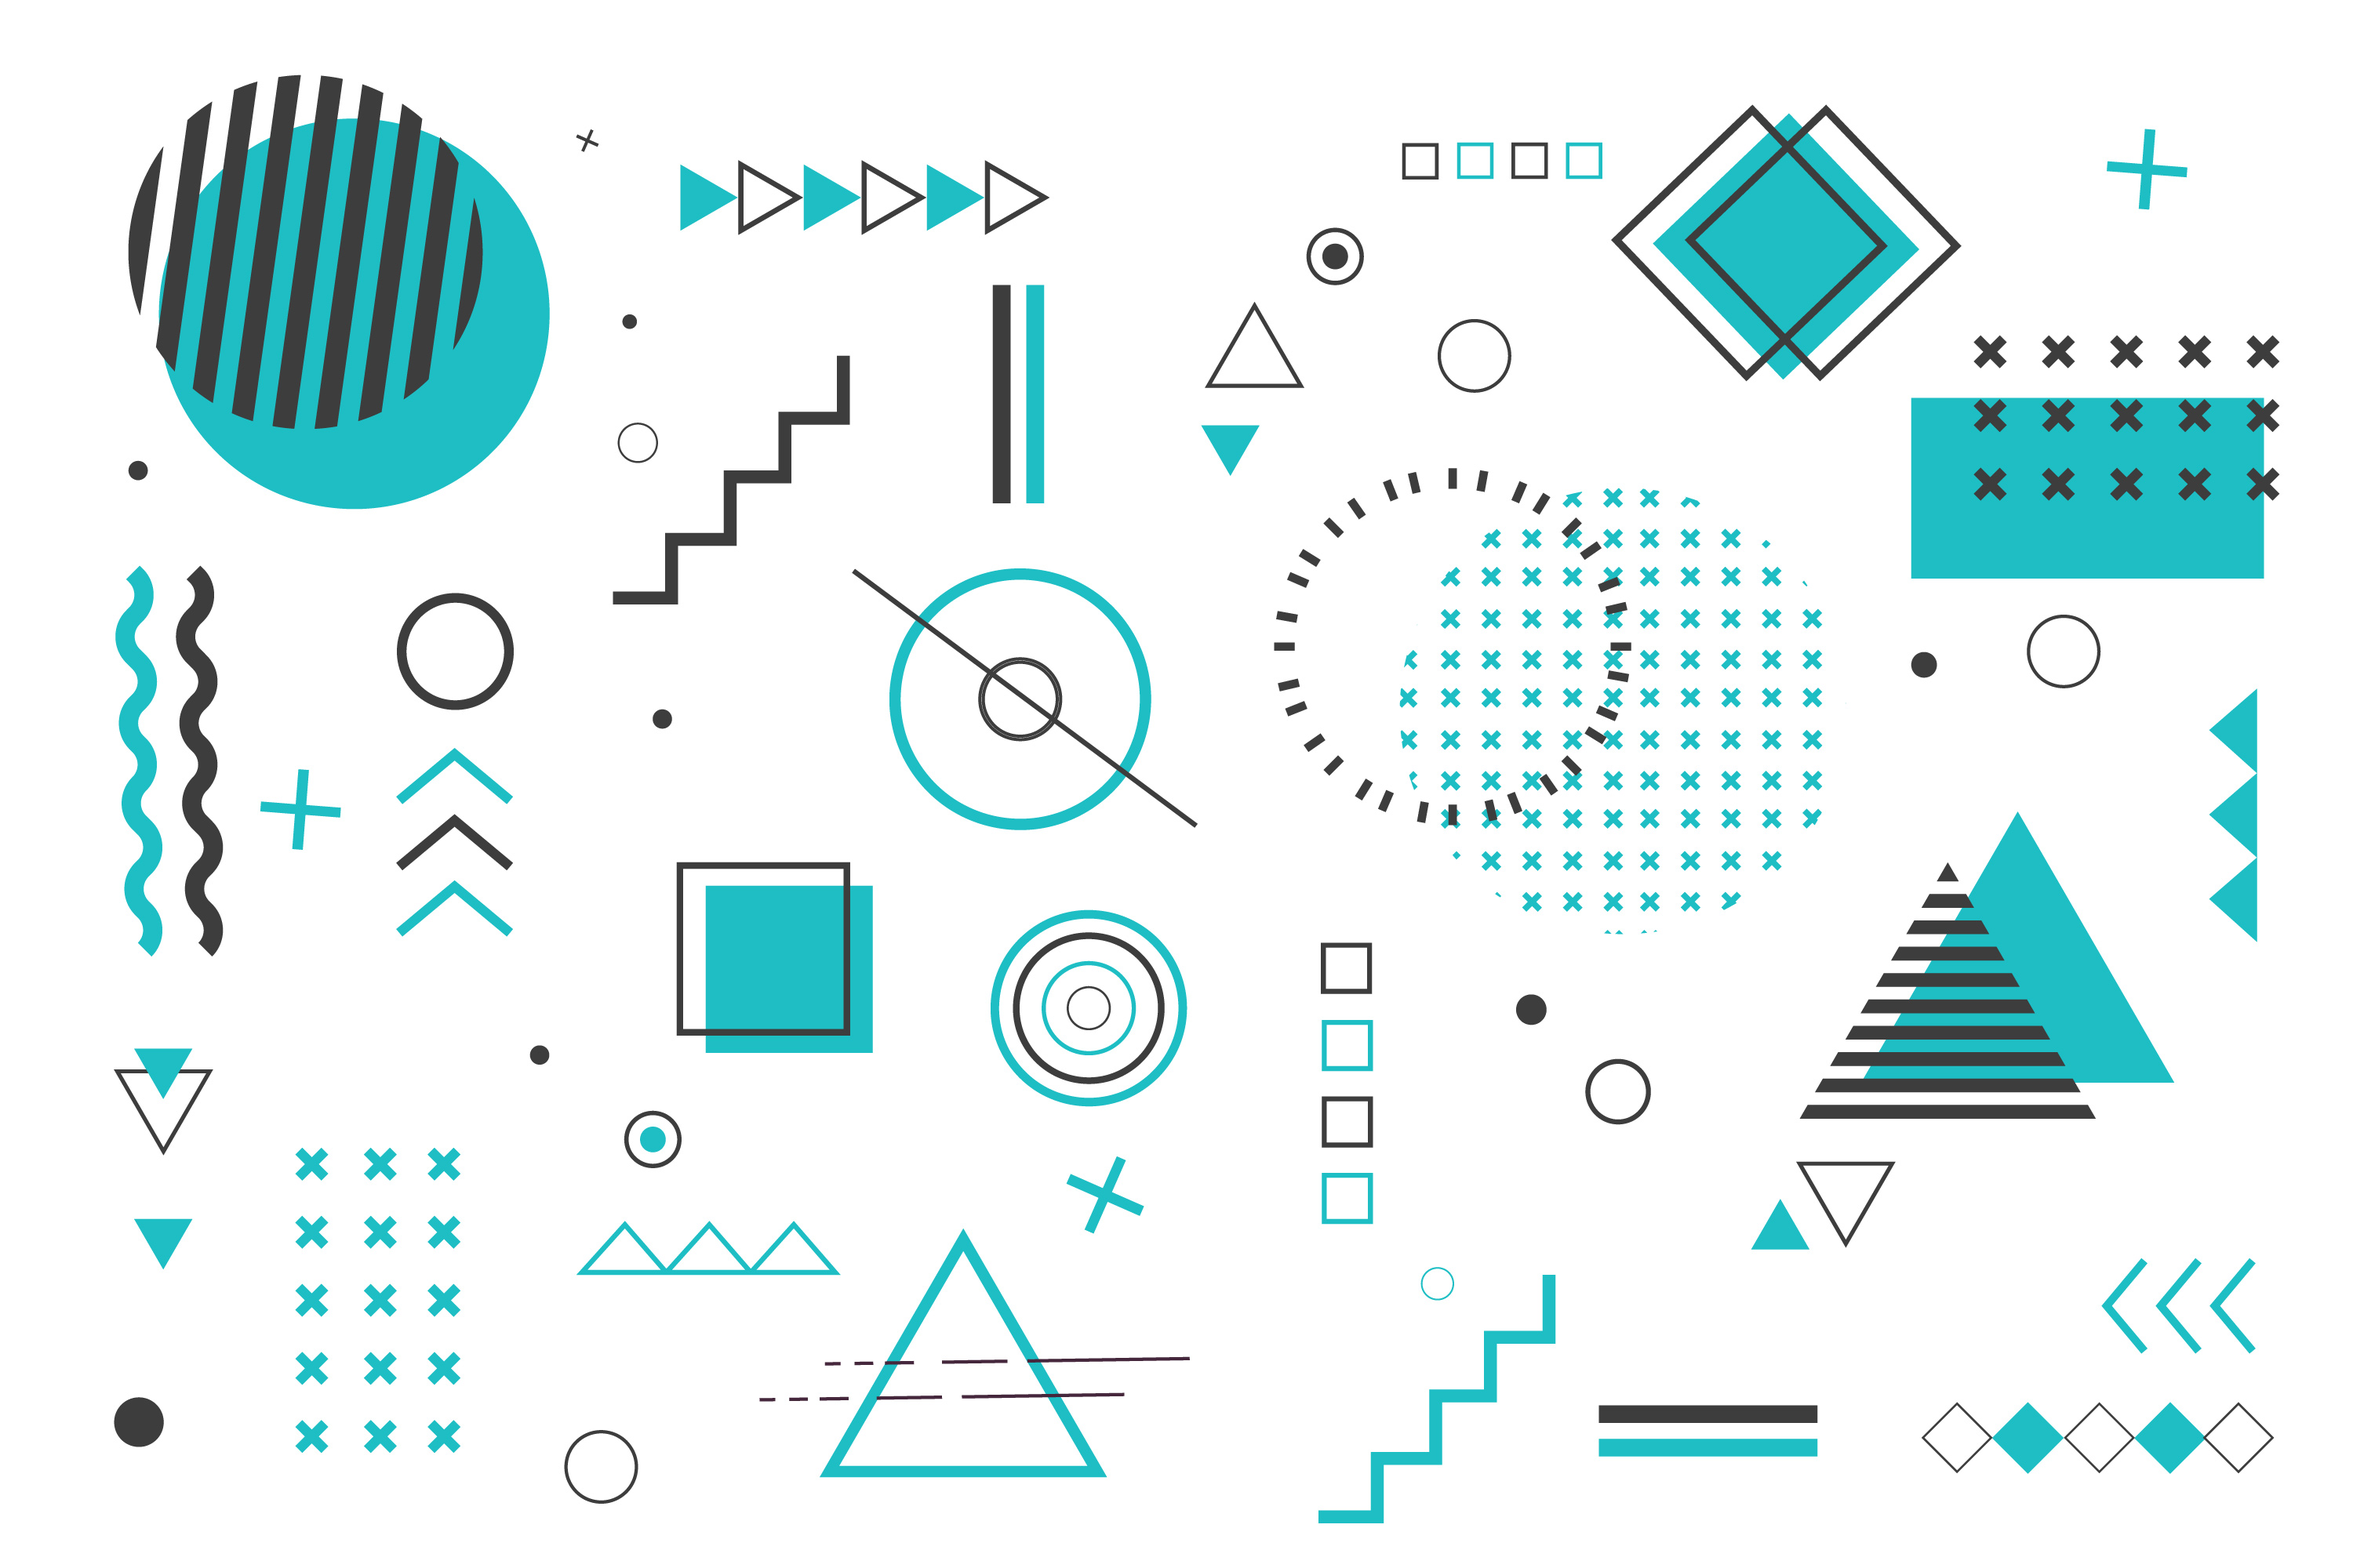
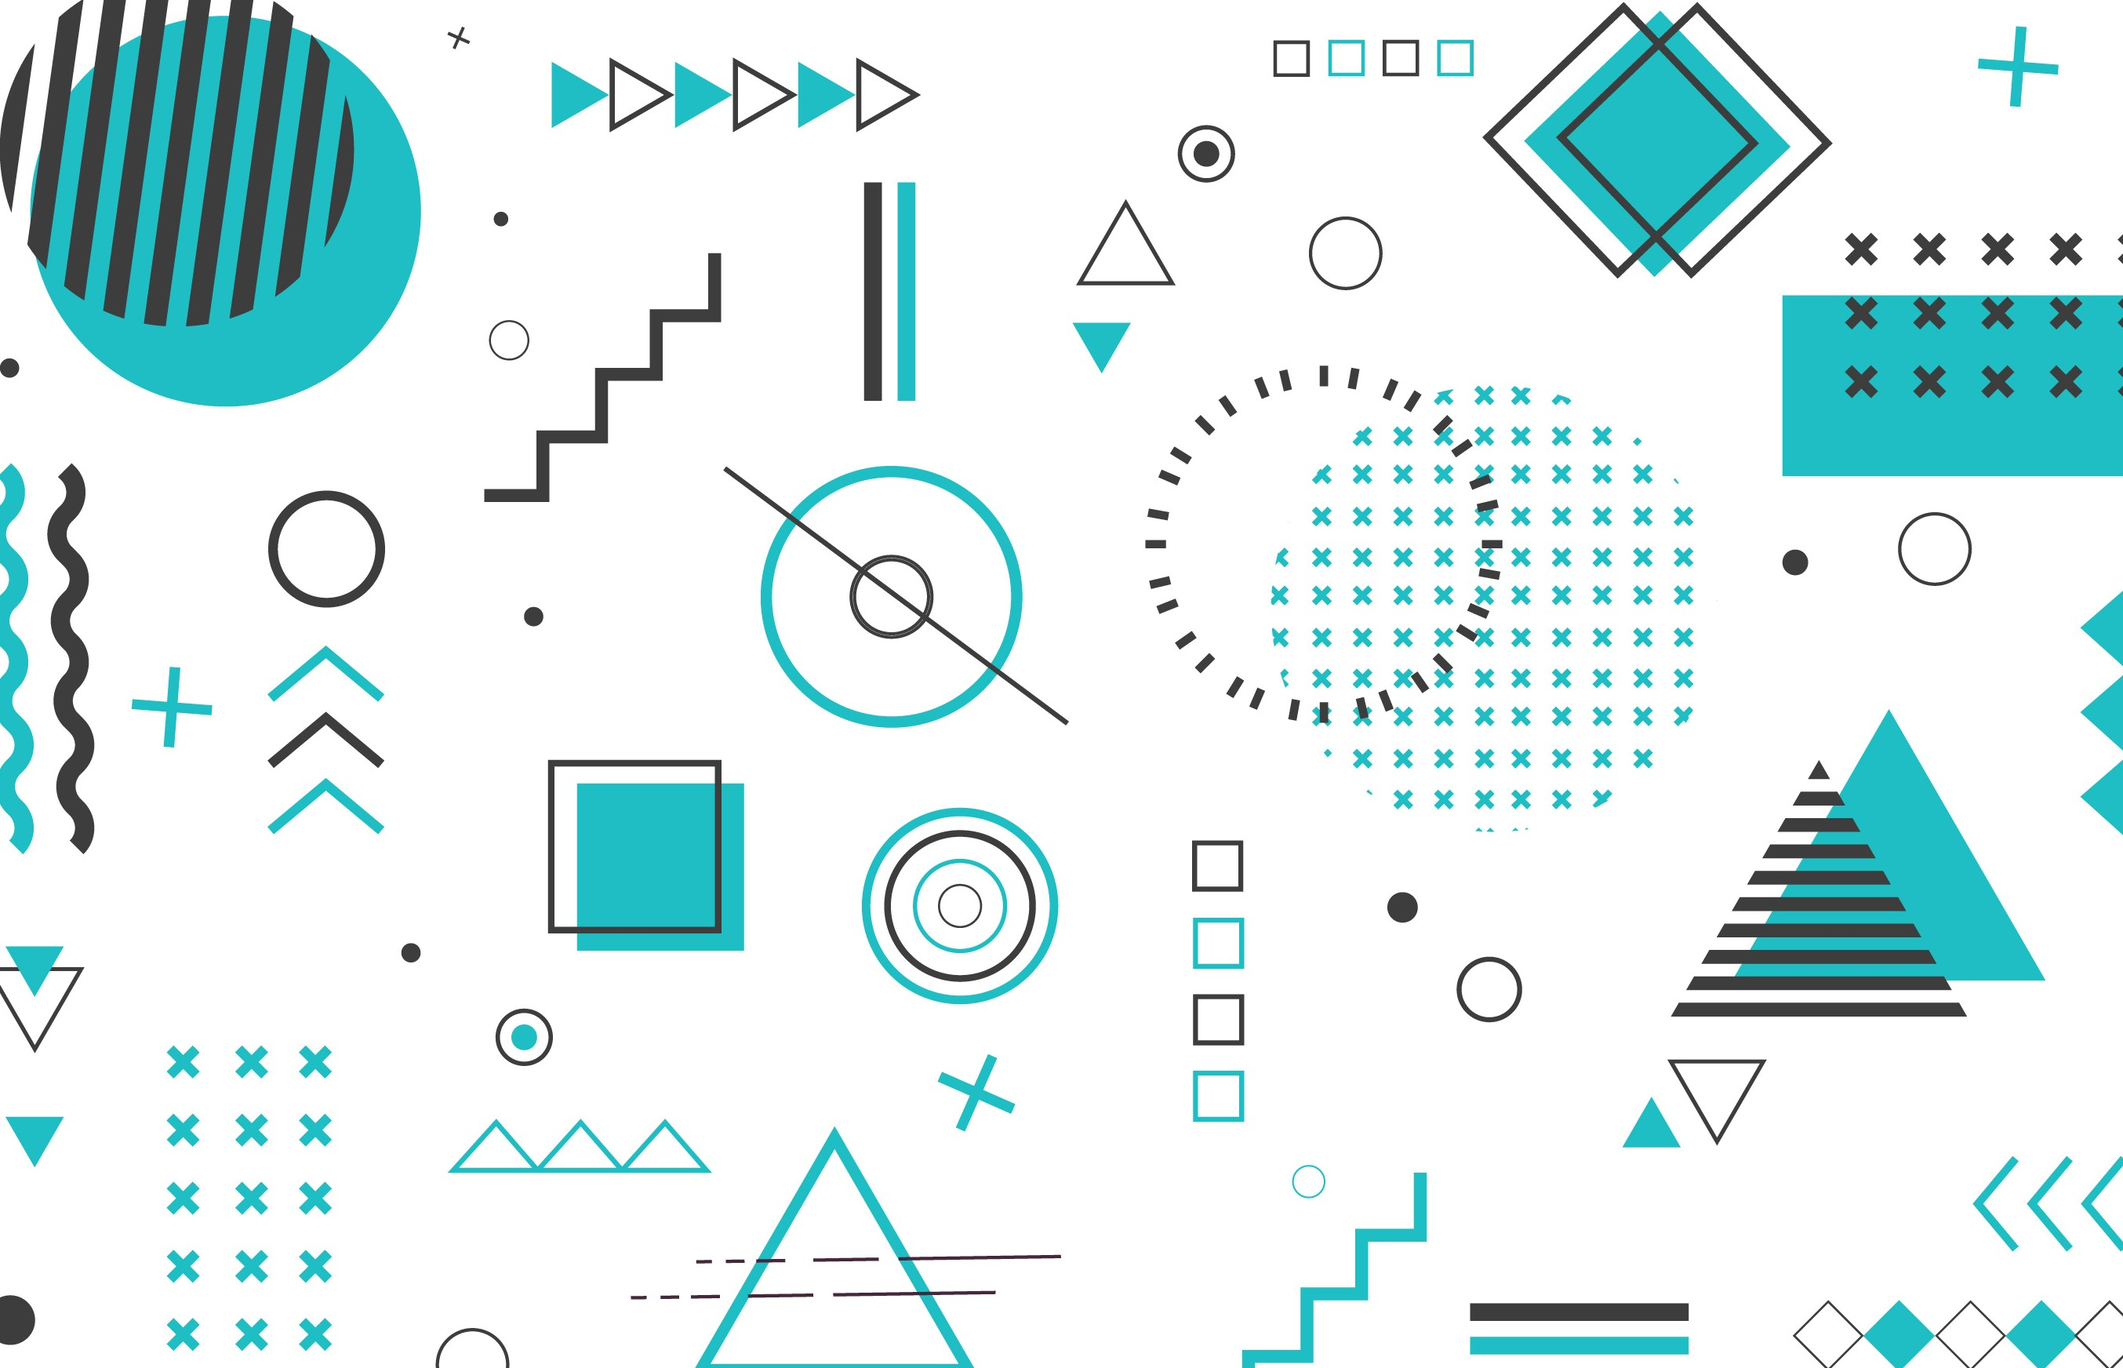
inserted background image with subtitle

diff --git a/assets/style.css b/assets/style.css
@@ -34,3 +34,25 @@ header li a {
     text-underline-offset: 10px;
     text-decoration-thickness: 3px;
 }
+
+figure {
+    position: relative;
+}
+
+.figure-image {
+    width: 100%;
+    height: 200px;
+    background-image: url(./images/geometric\ pattern.jpg);
+    background-size: cover; 
+    background-position: center;
+}
+
+.subtitle {
+    position: absolute;
+    bottom: 10px;
+    right: 240px;
+    background-color: rgb(61, 207, 207);
+    font-size: 25px;
+    padding: 0px 50px;
+    margin: 5px 0px;
+}

diff --git a/index.html b/index.html
@@ -30,6 +30,13 @@
         </ul>
     </header>
 
+    <figure>
+        <div class="figure-image">
+        <div class="subtitle">
+            <h3>Web Developer</h3>
+        </div>
+    </figure>
+
 
 
 </body>
